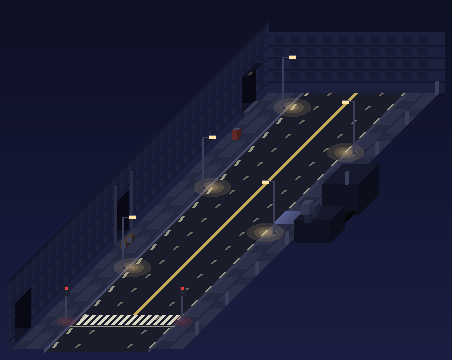
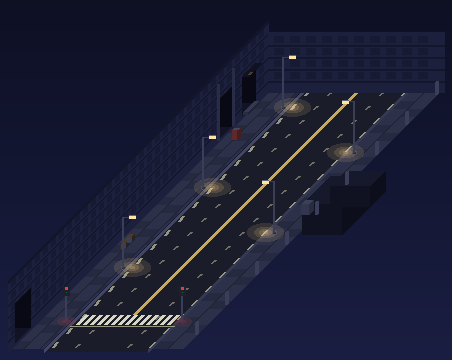
City 3D: pipes alley moved to top, right alley replaced by solid structure
Claude-Session: https://claude.ai/code/session_01FPZSaKiVNU2zED737yZX4w

diff --git a/tools/render_city3d.py b/tools/render_city3d.py
@@ -189,13 +189,14 @@ def street():
         s.jobs.append((56, sig)); s.glow(x, 56, 18, col=(230, 60, 60), power=.35, z=3)
     s.wall_left(0, D, 72, seed=4); s.wall_back(0, W, D, 60, seed=6)
     # 왼쪽 건물 벽에 골목 입구: 광장으로 이어지는 통로(아래) + 골목 3개. 모두 어둡다.
-    alley(s, 14, 44, 'link', depth=34); alley(s, 214, 240, 'pipes'); alley(s, 468, 494, 'door'); alley_right(s, 250, 276)
+    alley(s, 14, 44, 'link', depth=34); alley(s, 420, 446, 'pipes'); alley(s, 468, 494, 'door')
+    s.box(176, 236, 40, 56, 30, (22, 24, 44), (16, 18, 34), (12, 14, 28)); s.box(176, 292, 40, 30, 20, (22, 24, 44), (16, 18, 34), (12, 14, 28))   # 오른쪽: 골목 대신 막힌 구조물
     for x, d, side in [(30, 170, 1), (146, 240, -1), (30, 330, 1), (146, 400, -1), (30, 490, 1)]: s.lamp(x, d, 50, side)
     s.box(12, 200, 5, 18, 5, (74, 58, 46), (56, 44, 36), (44, 34, 28), z0=4); s.box(12, 202, 3, 2, 4, POLE, POLE, POLE, z0=3); s.box(12, 214, 3, 2, 4, POLE, POLE, POLE, z0=3)
     s.box(158, 270, 8, 8, 10, (60, 64, 88), (50, 54, 78), (40, 44, 66), z0=3)
     s.box(14, 420, 5, 5, 9, (70, 70, 96), (96, 40, 40), (70, 30, 30), z0=3)
     for d in range(30, D, 60):
-        if not (250 - 4 <= d <= 276 + 4): s.box(172, d, 2, 2, 12, POLE, POLE, POLE, z0=3)
+        s.box(172, d, 2, 2, 12, POLE, POLE, POLE, z0=3)
     s.run(); return s.save('city3d_street')
 
 def main():
